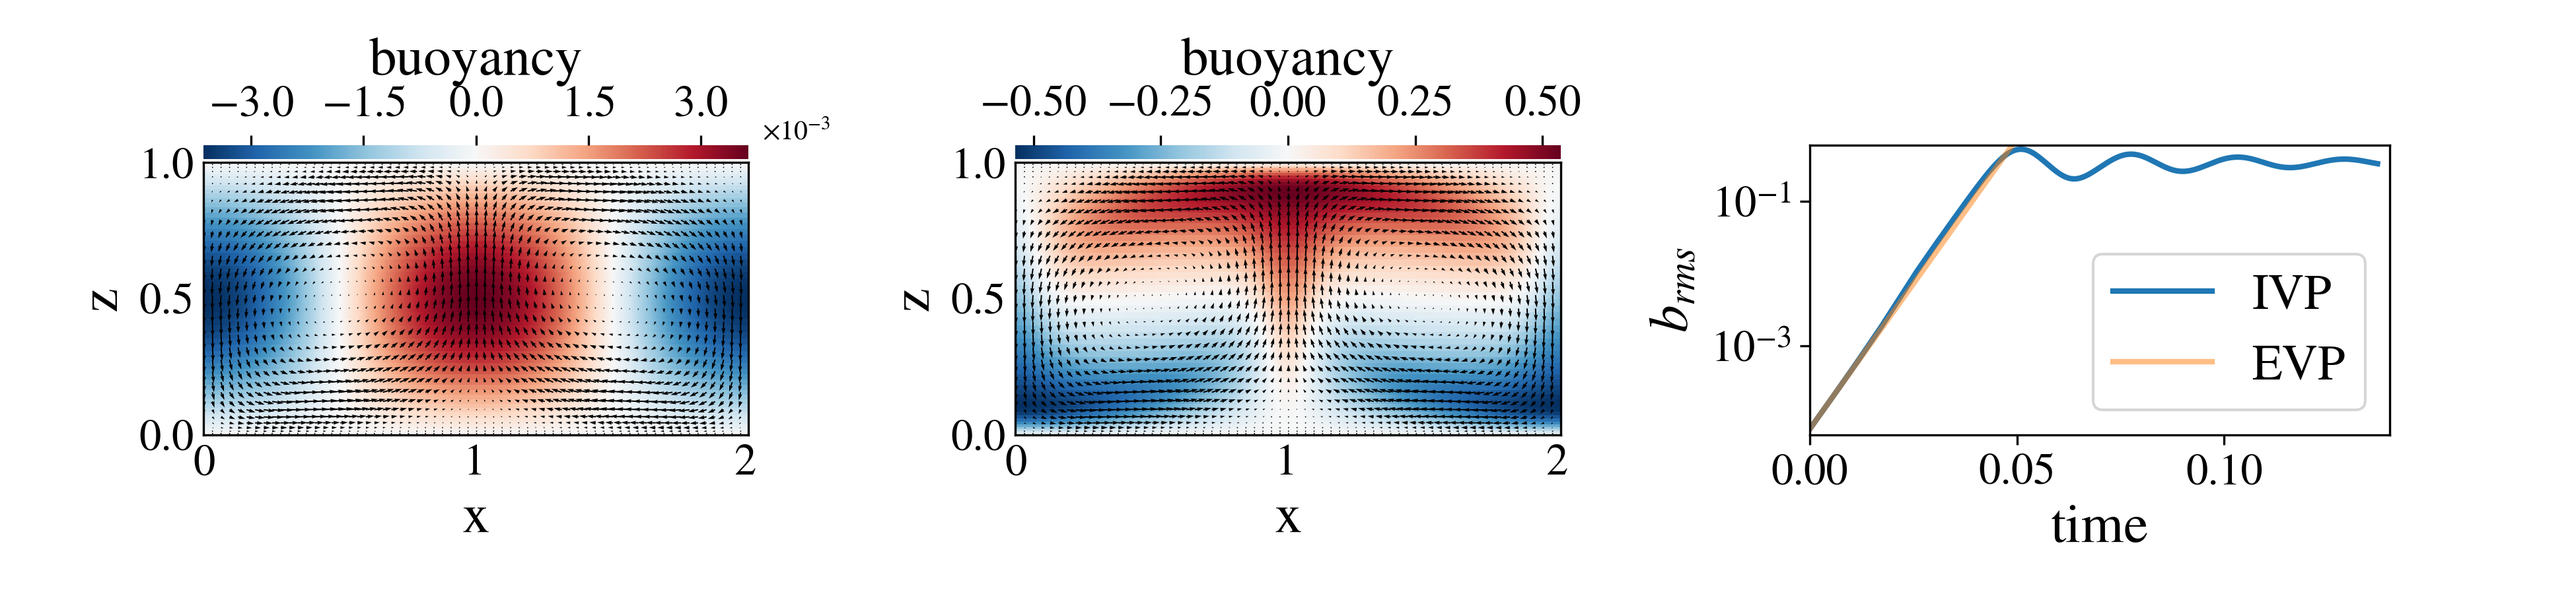
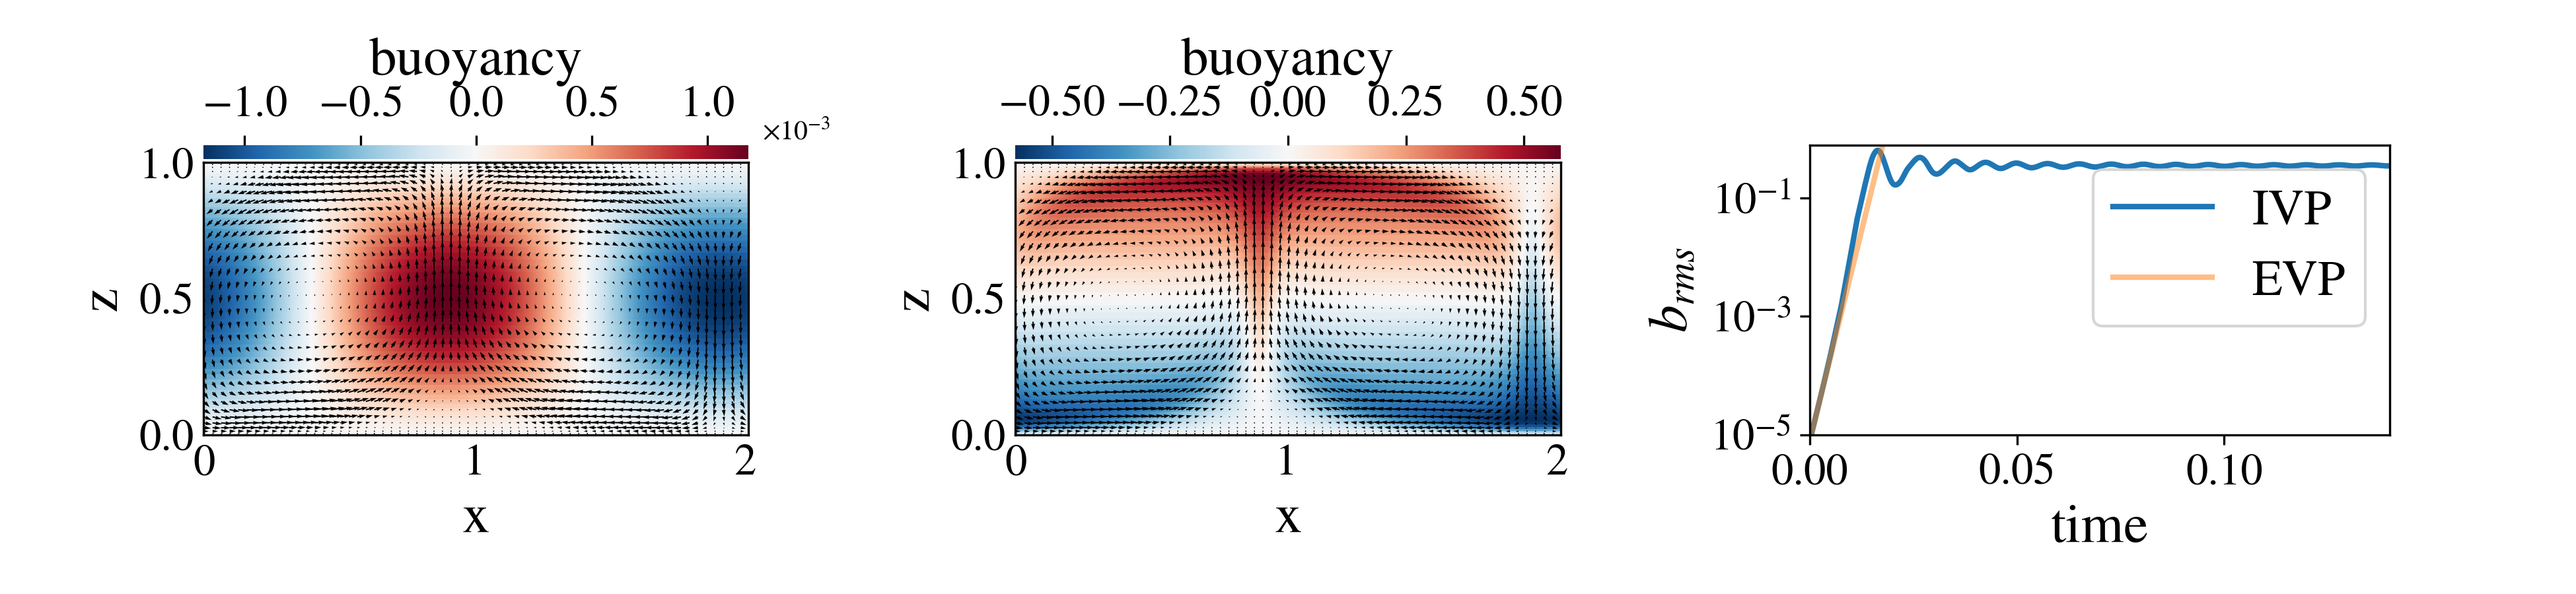
Fixed RBC figure: use Ra=1e6

diff --git a/JOSS-paper/plot_rbc_figure.py b/JOSS-paper/plot_rbc_figure.py
@@ -5,11 +5,10 @@ import dedalus.extras.plot_tools as plot_tools
 
 plt.style.use('prl')
 
-evp = h5py.File("IVP_output/IVP_output_s1.h5","r")
-df0 = h5py.File("ra1e5/snapshots/snapshots_s1.h5","r")
-df = h5py.File("ra1e5/snapshots/snapshots_s26.h5","r")
+df0 = h5py.File("snapshots/snapshots_s1.h5","r")
+df = h5py.File("snapshots/snapshots_s37.h5","r")
 
-ts_ra1e5 = h5py.File("timeseries/timeseries_s1/timeseries_s1_p0.h5","r")
+ts = h5py.File("timeseries/timeseries_s1/timeseries_s1_p0.h5","r")
 
 
 scale = 1
@@ -37,13 +36,14 @@ ax[1].text(1.025, 1, r'$\times 10^{-3}$', va='bottom', ha='left',transform=ax[1]
 ax[1].xaxis.get_children()[1].set_visible(False)
 
 
-growth = 184.65944709539858
-model = ts_ra1e5['tasks/b_rms'][0,0,0]*np.exp(growth*ts_ra1e5['scales/sim_time'][:])
+growth = 655.1197879003645
+model = ts['tasks/b_rms'][0,0,0]*np.exp(growth*ts['scales/sim_time'][:])
 ax3 = mfig.add_axes(0,2,[0,0,1,1])
-ax3.semilogy(ts_ra1e5['scales/sim_time'],ts_ra1e5['tasks/b_rms'][:,0,0], label='IVP')
-ax3.semilogy(ts_ra1e5['scales/sim_time'],model, alpha=0.5, label='EVP')
+ax3.semilogy(ts['scales/sim_time'][:],ts['tasks/b_rms'][:,0,0], label='IVP')
+ax3.semilogy(ts['scales/sim_time'][:],model, alpha=0.5, label='EVP')
+
 ax3.legend()
-ax3.set_ylim(6e-5,6e-1)
+ax3.set_ylim(1e-5,8e-1)
 ax3.set_xlim(0,0.14)
 ax3.set_xlabel("time")
 ax3.set_ylabel(r"$b_{rms}$")

diff --git a/JOSS-paper/run_rbc_evp_ivp_figure.py b/JOSS-paper/run_rbc_evp_ivp_figure.py
@@ -59,19 +59,18 @@ if __name__=="__main__":
     kc = 3.117  #horizontal wavenumber
     Rac = 1708. #Rayleigh number, rigid-rigid is 1708
     Lx = 2*np.pi/kc
-
+    Ra = 1e6
     with Sync(comm) as sync:
         if sync.comm.rank == 0:
-            z_evp = de.Chebyshev('z',64, interval=(0, 1))
+            z_evp = de.Chebyshev('z',32, interval=(0, 1))
             d_evp = de.Domain([z_evp],comm=MPI.COMM_SELF)
             rb_evp = rbc_problem('EVP',d_evp)
             EP = eig.Eigenproblem(rb_evp)
 
-            x = de.Fourier('x', 64, interval = (0, Lx)) 
-            z = de.Chebyshev('z',64, interval=(0, 1))
+            x = de.Fourier('x', 32, interval = (0, Lx)) 
+            z = de.Chebyshev('z',32, interval=(0, 1))
             output_domain = de.Domain([x,z],grid_dtype=np.float64,comm=MPI.COMM_SELF)
 
-            Ra = 1e5
             logger.info("projecting mode at Ra = {}, k = {}".format(Ra,kc))
             growth, index, freq = EP.growth_rate(parameters={'k':kc,'Ra':Ra},sparse=False)
 
